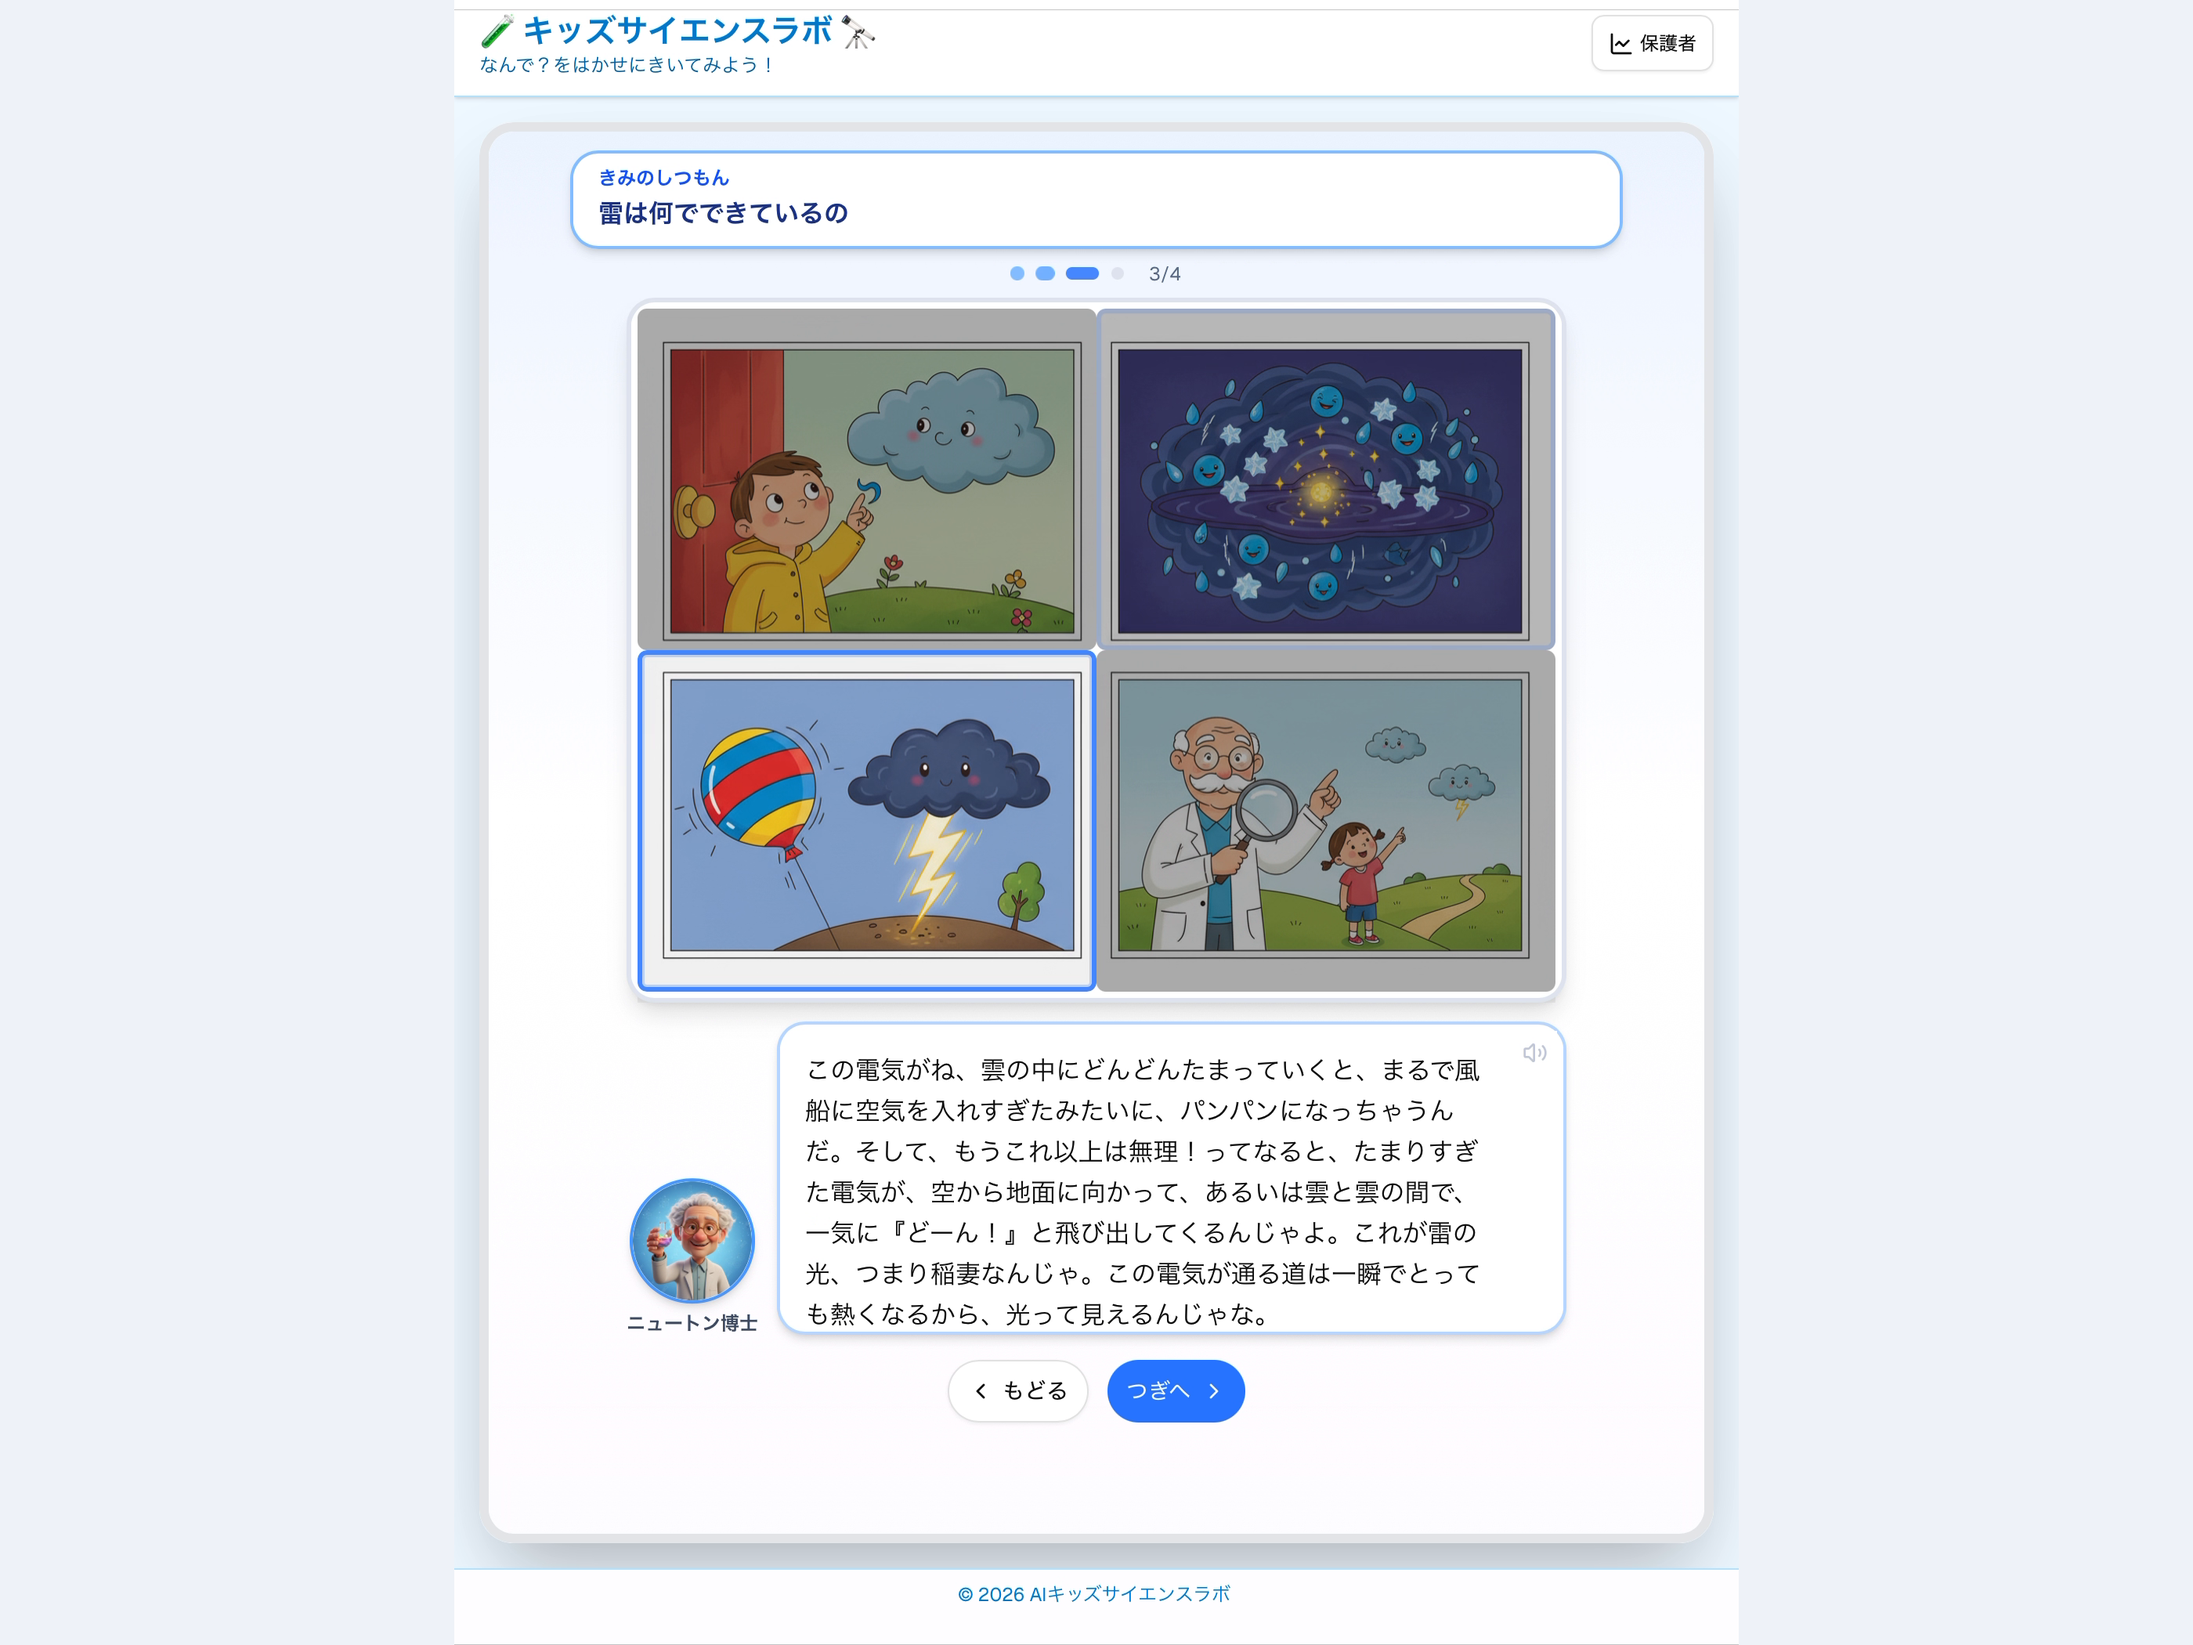
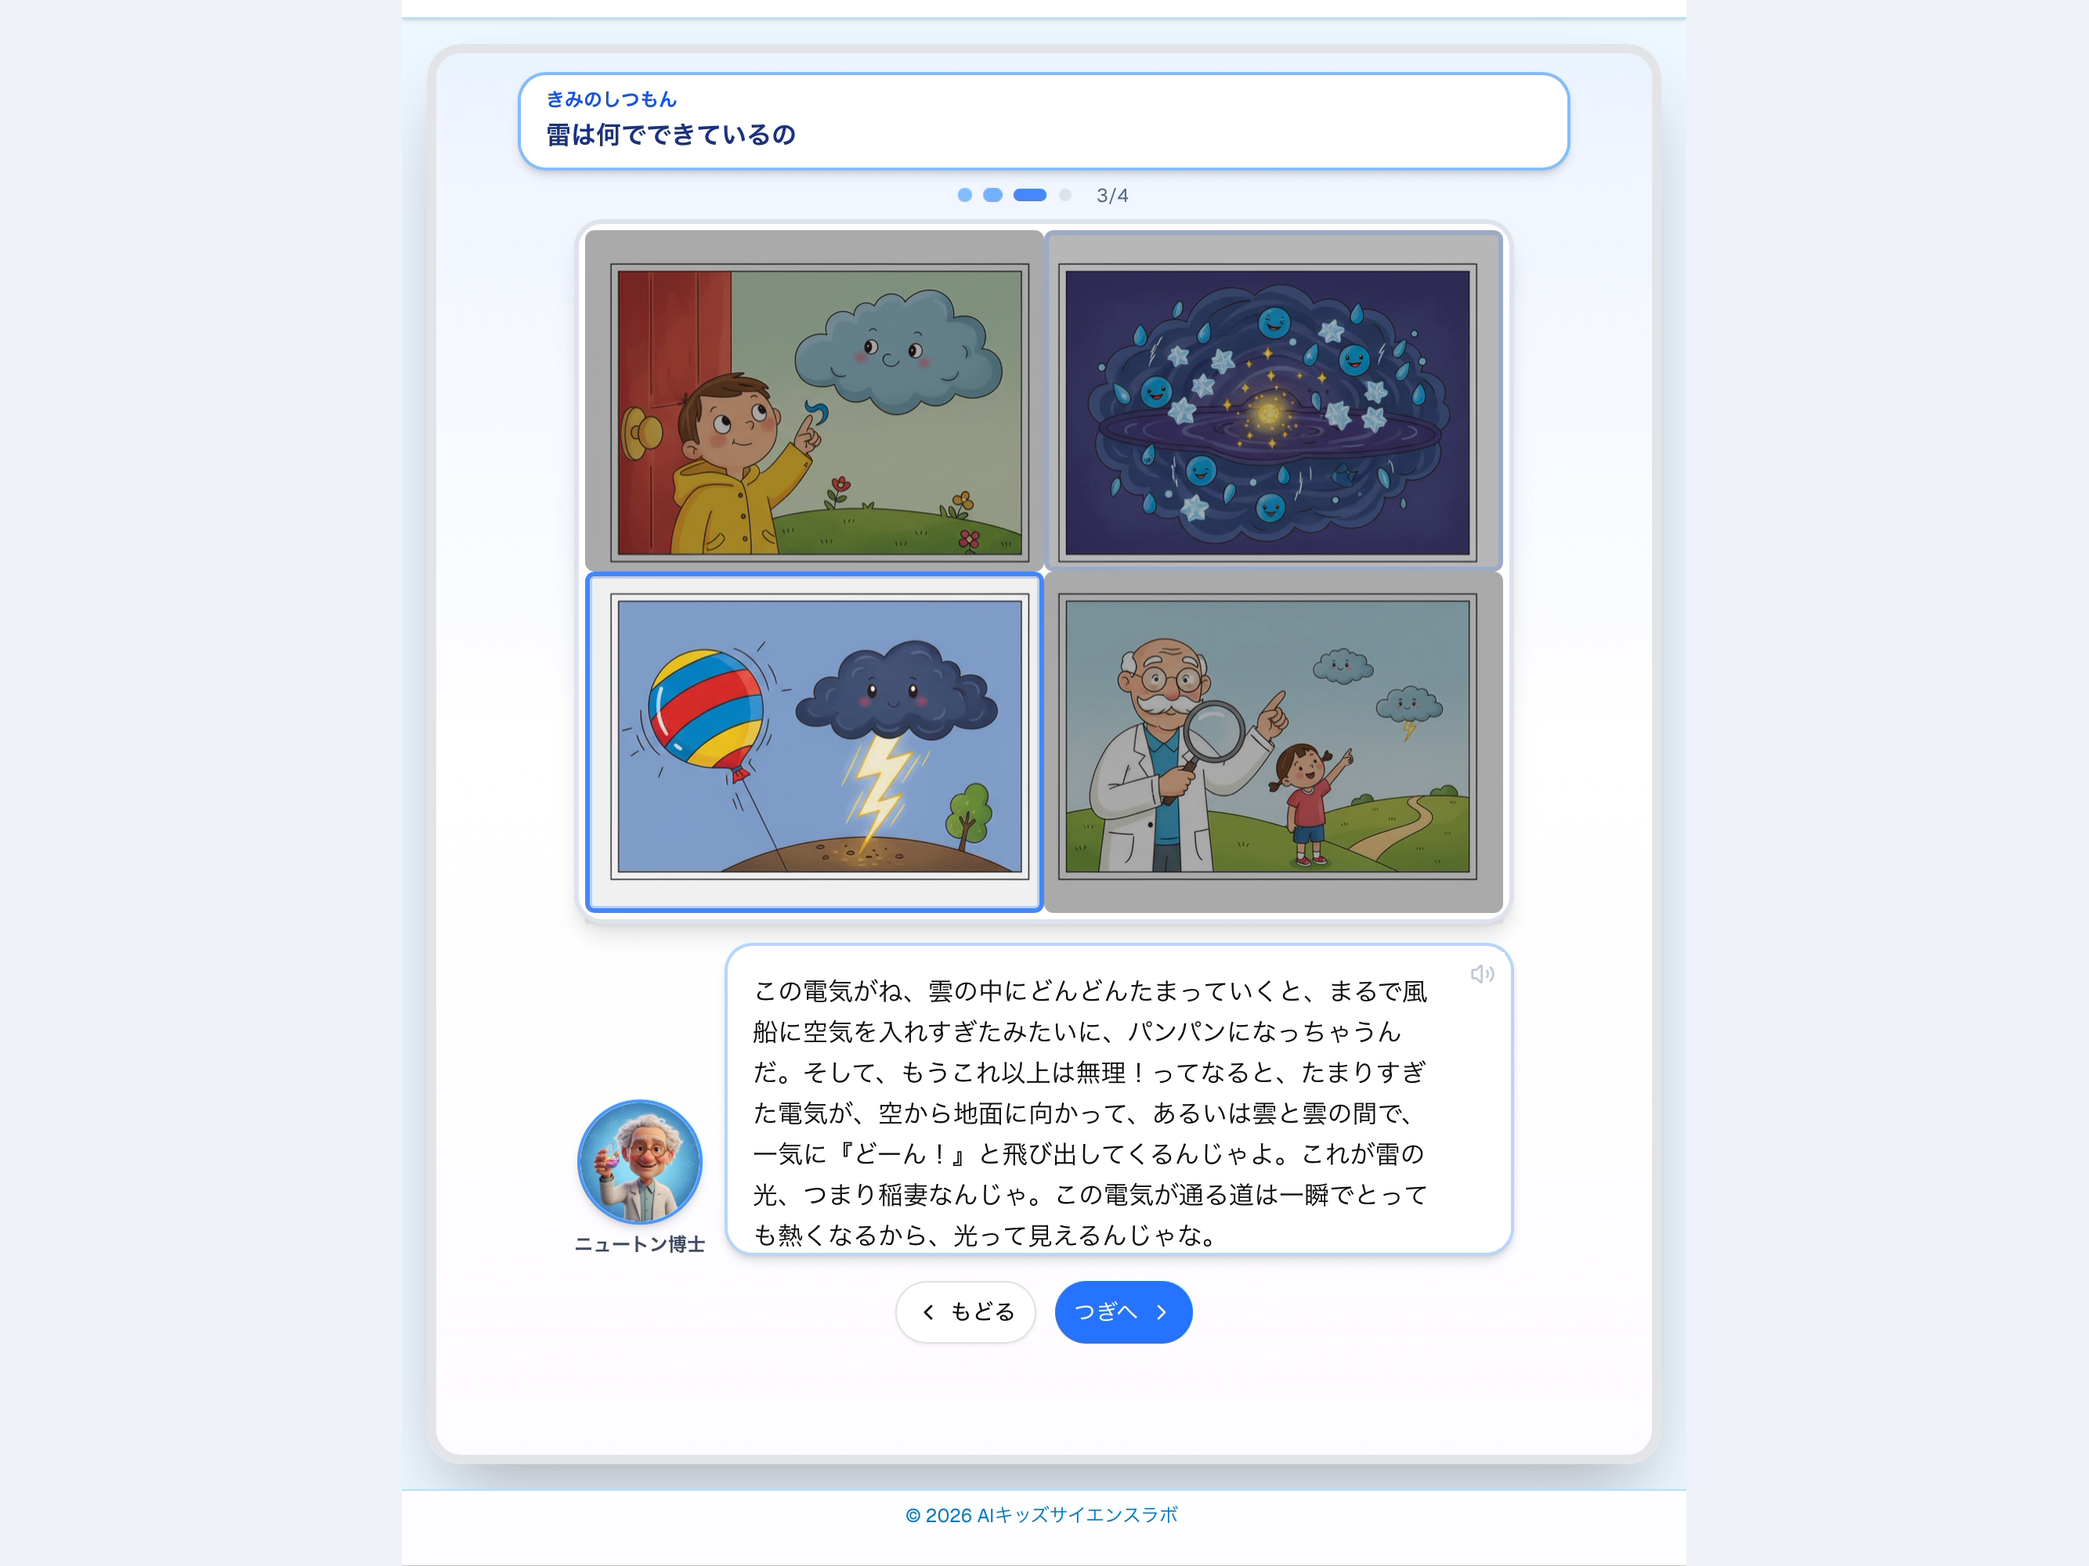
Update video editing assets and frame processing script

Changed region(s): [[0.1867, 0.0, 0.8091, 0.868], [0.1867, 0.248, 0.778, 0.992], [0.778, 0.217, 0.8091, 0.93]]

diff --git a/tools/process_frames_4x3.py b/tools/process_frames_4x3.py
@@ -13,8 +13,8 @@ DEST_DIR = Path("output/video_analysis_5sec_processed")
 
 # Crop settings based on inspection of frame_0001.png
 # Original size: 1640x2360
-# Remove browser UI at top by cropping 260px from top.
-CROP_TOP = 260
+# Remove browser UI at top by cropping 360px from top.
+CROP_TOP = 360
 
 # Output target (4:3) based on cropped height 2100 -> width 2800
 TARGET_HEIGHT = 2100

diff --git a/plans/video_editing_plan_visual.md b/plans/video_editing_plan_visual.md
@@ -1,6 +1,6 @@
 # 動画編集計画書 v3.1 (Video Editing Plan v3.1)
 
-抽出したフレーム画像（5秒間隔）を使用して、より詳細なカット割りとタイムラインを作成しました。
+抽出したフレーム画像（5秒間隔）から、ブラウザUIを除去し4:3比率で背景を付けた素材を使用して、より詳細なカット割りとタイムラインを作成しました。
 
 ## Part A: 子供の体験 (The Child's Journey)
 **コンセプト:** 「飽きさせない」「分かりやすい」「探究心が続く」
